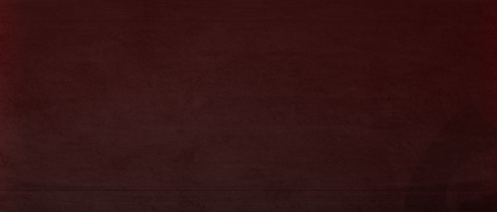
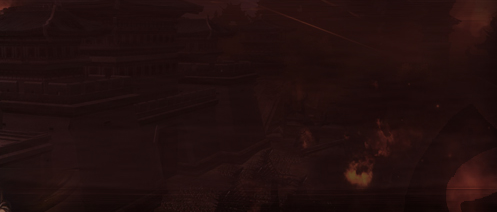
add new bg for v2

diff --git a/changelog.html b/changelog.html
@@ -5,18 +5,26 @@
 <title>ChangeLog</title>
 <style type="text/css">
 body {
-	margin: 0; padding: 0;
-	background: url(bg2.png) no-repeat fixed #361212;
-	color: #ffffff; width: 495px;
+    margin: 0; padding: 0;
+    background: url(bg.png) no-repeat fixed #361212;
+    color: #ffffff; width: 495px;
 }
-pre { 
-	font-family: "微软雅黑", Tahoma; font-size: 12px;
-	margin: 0; padding: 0;
-	word-wrap:break-word; overflow:hidden;
+pre {
+    font-family: "微软雅黑", Tahoma; font-size: 12px;
+    margin: 0; padding: 0;
+    word-wrap:break-word; overflow:hidden;
 }
 </style>
 </head>
 <body>
+<script language="javascript">
+var pos = window.location.href.lastIndexOf('?v');
+if (pos > 0)
+{
+    var ver = window.location.href.substring(pos + 2);)
+    document.body.style.backgroundImage = 'url(bg' + ver + '.png)';
+}
+</script>
 <pre>
 《剑网3》海鳗插件：修改日志
 ===================

diff --git a/update_sync_file.php b/update_sync_file.php
@@ -43,18 +43,26 @@ $data = <<<EOF
 <title>ChangeLog</title>
 <style type="text/css">
 body {
-	margin: 0; padding: 0;
-	background: url(bg2.png) no-repeat fixed #361212;
-	color: #ffffff; width: 495px;
+    margin: 0; padding: 0;
+    background: url(bg.png) no-repeat fixed #361212;
+    color: #ffffff; width: 495px;
 }
-pre { 
-	font-family: "微软雅黑", Tahoma; font-size: 12px;
-	margin: 0; padding: 0;
-	word-wrap:break-word; overflow:hidden;
+pre {
+    font-family: "微软雅黑", Tahoma; font-size: 12px;
+    margin: 0; padding: 0;
+    word-wrap:break-word; overflow:hidden;
 }
 </style>
 </head>
 <body>
+<script language="javascript">
+var pos = window.location.href.lastIndexOf('?v');
+if (pos > 0)
+{
+    var ver = window.location.href.substring(pos + 2);)
+    document.body.style.backgroundImage = 'url(bg' + ver + '.png)';
+}
+</script>
 <pre>
 《剑网3》海鳗插件：修改日志
 ===================
